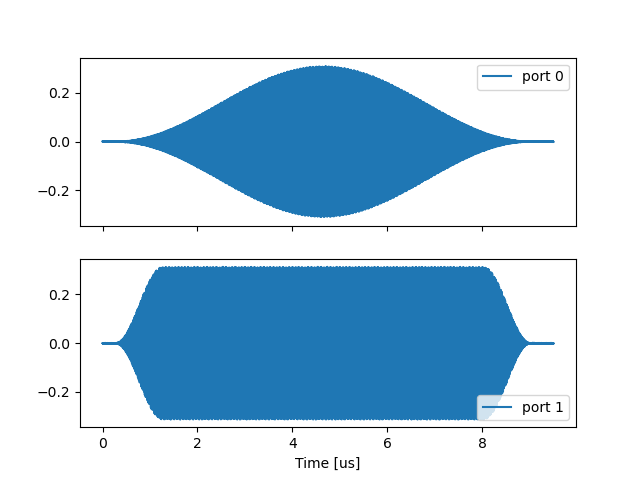
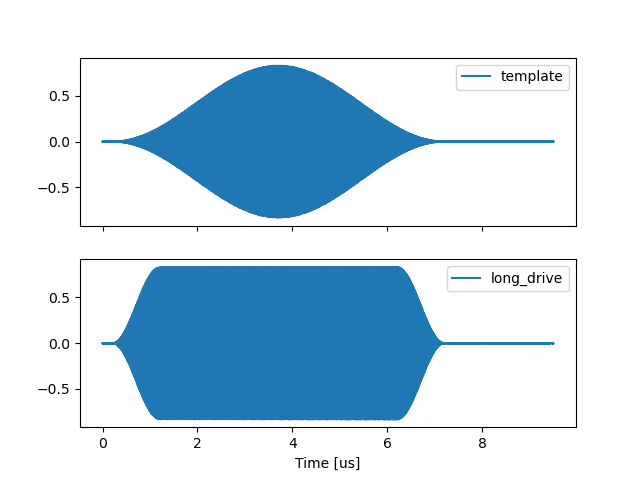
Checked that demos work as intended

diff --git a/demo_2_long_pulses.py b/demo_2_long_pulses.py
@@ -2,14 +2,21 @@
 
 Also demonstrate the convenience method setup_long_drive.
 
-Connect Out 1 to In 1 and Out 2 to In 2.
+Connect one output to one input.
 """
 import matplotlib.pyplot as plt
 import numpy as np
 
 from presto import pulsed
 
-ADDRESS = "192.168.42.50"  # set address/hostname of Vivace here
+# Any port on Vivace
+# Any port on Presto wide, wamp and low
+# Ports 5-8 on Presto-8-QC
+# Ports 9-16 on Presto-16-QC
+output_port = 9
+input_port = 9
+
+ADDRESS = "192.168.20.19"  # set address/hostname of Vivace here
 EXT_REF = False  # set to True to use external 10 MHz reference
 
 with pulsed.Pulsed(
@@ -20,8 +27,9 @@ with pulsed.Pulsed(
 ) as pls:
     ######################################################################
     # Select inputs to store and the duration of each store
-    pls.set_store_ports([1, 2])
-    pls.set_store_duration(9.5e-6)
+    store_duration = 9.5e-6
+    pls.set_store_ports(input_port)
+    pls.set_store_duration(store_duration)
 
     ######################################################################
     # create a long pulse using multiple templates on port 1
@@ -29,39 +37,40 @@ with pulsed.Pulsed(
     t = np.arange(N) / pls.get_fs("dac")
     freq = 55e6
     data = np.sin(2 * np.pi * freq * t) * np.hanning(N)
-    port = 1
     # setup_template will split the template into 4 segments
-    template_1 = pls.setup_template(port, 0, data)
-    pls.setup_scale_lut(port, 0, 1.0)
+    template_1 = pls.setup_template(output_port, 0, data)
+    pls.setup_scale_lut(output_port, 0, 1.0)
 
     ######################################################################
     # create a long pulse from sections using long_drive
-    # See demo_4 for setup_freq_lut and carrier
-    port = 2
-    group = 0
+    # See demo_3 for setup_freq_lut and carrier
+    group = 1
     freq = 55e6
     phase = 0.0
-    pls.setup_freq_lut(port, group, freq, phase)  # see demo_4
-    pls.setup_scale_lut(port, group, 1.0)
+    pls.setup_freq_lut(output_port, group, freq, phase)  # see demo_3
+    pls.setup_scale_lut(output_port, group, 1.0)
 
     # a pulse with the sampe lenght, with 1 us rise time and 1 us fall time
     duration = N / pls.get_fs("dac")
     template_2 = pls.setup_long_drive(
-        output_port=port,
+        output_port=output_port,
         group=group,
         duration=duration,
         amplitude=1.0,
         rise_time=1.0e-6,
         fall_time=1.0e-6,
+        envelope=True,
     )
 
     ######################################################################
     # define the sequence of pulses and data stores in time
     # output the long pulse and store the beginning of the pulses
     T = 0.0
-    pls.select_frequency(T, 0, port, group)  # see demo_4
-    pls.reset_phase(T, output_ports=2)
     pls.output_pulse(T, template_1)
+    pls.store(T)
+    T += store_duration + 2e-9
+    pls.select_frequency(T, 0, output_port, group)  # see demo_4
+    pls.reset_phase(T, output_ports=output_port)
     pls.output_pulse(T, template_2)
     pls.store(T)
 
@@ -69,9 +78,9 @@ with pulsed.Pulsed(
     t_arr, data = pls.get_store_data()
 
 fig, ax = plt.subplots(2, sharex=True, sharey=True)
-ax[0].plot(1e6 * t_arr, data[0, 0, :], label=f"port 0")
+ax[0].plot(1e6 * t_arr, data[0, 0, :], label=f"template")
 ax[0].legend()
-ax[1].plot(1e6 * t_arr, data[0, 1, :], label=f"port 1")
+ax[1].plot(1e6 * t_arr, data[1, 0, :], label=f"long_drive")
 ax[1].legend()
 ax[1].set_xlabel("Time [us]")
 fig.show()

diff --git a/demo_5_template_match.py b/demo_5_template_match.py
@@ -15,11 +15,11 @@ from presto import pulsed
 # Any port on Presto wide, wamp or low
 # Ports 5-8 on Presto-8-QC
 # Ports 9-16 on Presto-16-QC
-input_port = 1
-output_port = 1
+input_port = 9
+output_port = 9
 freq = 100e6  # Hz
 
-ADDRESS = "192.168.42.50"  # set address/hostname of Vivace here
+ADDRESS = "192.168.20.19"  # set address/hostname of Vivace here
 EXT_REF = False  # set to True to use external 10 MHz reference
 
 with pulsed.Pulsed(
@@ -43,12 +43,13 @@ with pulsed.Pulsed(
     # This template will be scaled by the final output scaler.
     N = pulsed.MAX_TEMPLATE_LEN
     t = np.arange(N) / pls.get_fs("dac")
+    print(t)
     s = np.hanning(N)  # use the Hanning window as envelope shape
     template_1 = pls.setup_template(
         output_port=output_port,
         group=0,
         template=s,
-        envelope=1,
+        envelope=True,
     )
 
     # setup a list of frequencies for carrier generator 1
@@ -65,7 +66,7 @@ with pulsed.Pulsed(
 
     # setup a list of scales, decrease the scale with every iteration
     NSCALES = NFREQ  # use same number of steps as for the frequency
-    scales = np.linspace(1.0, 0.01, NSCALES)
+    scales = np.linspace(1.0, 0.1, NSCALES)
     pls.setup_scale_lut(
         output_ports=output_port,
         group=0,
@@ -79,7 +80,7 @@ with pulsed.Pulsed(
     t = np.arange(pulsed.MAX_TEMPLATE_LEN // 2) / pls.get_fs("adc")
     tc = np.cos(2 * np.pi * freq * t)
     ts = -np.sin(2 * np.pi * freq * t)
-    match_pair = pls.setup_template_matching_pair(1, tc, ts)
+    match_pair = pls.setup_template_matching_pair(input_port, tc, ts)
 
     ######################################################################
     # define the sequence of pulses and data stores in time

diff --git a/lockin_demo_1.py b/lockin_demo_1.py
@@ -17,14 +17,14 @@ from presto import lockin, utils
 
 
 # address of the instrument used
-ADDRESS = "192.168.42.50"
+ADDRESS = "192.168.20.19"
 
 # input port used in this measurement
 # Any port on Vivace
 # Any port on Presto wide
 # Ports 5-8 on Presto-8-QC
 # Ports 9-16 on Presto-16-QC
-in_port = 1
+in_port = 9
 
 # output ports used in this meeasurement
 # Any port on Vivace
@@ -33,7 +33,7 @@ in_port = 1
 # Ports 9-12 on Presto-16-QC
 # A group of frequencies can be output on any number of ports,
 # output one for loopback and one for monitoring witn oscilloscope.
-out_port = [1, 2]
+out_port = [9, 10]
 
 # Use a high df when sweeping to cover a wide frequency range with a
 # resonable number of points

diff --git a/demo_1_simple.py b/demo_1_simple.py
@@ -12,10 +12,10 @@ from presto.utils import sin2
 # Any port on Presto wide, wamp and low
 # Ports 5-8 on Presto-8-QC
 # Ports 9-16 on Presto-16-QC
-output_port = 5
-input_port = 5
+output_port = 9
+input_port = 9
 
-ADDRESS = "192.168.88.65"  # set address/hostname of Vivace/Presto here
+ADDRESS = "192.168.20.19"  # set address/hostname of Vivace/Presto here
 EXT_REF = False  # set to True to use external 10 MHz reference
 
 with pulsed.Pulsed(

diff --git a/demo_3_envelopes.py b/demo_3_envelopes.py
@@ -11,10 +11,10 @@ from presto import pulsed
 # Any port on Presto wide, wamp or low
 # Ports 5-8 on Presto-8-QC
 # Ports 9-16 on Presto-16-QC
-input_port = 1
-output_port = 1
+input_port = 9
+output_port = 9
 
-ADDRESS = "192.168.42.50"  # set address/hostname of Vivace here
+ADDRESS = "192.168.20.19"  # set address/hostname of Vivace here
 EXT_REF = False  # set to True to use external 10 MHz reference
 
 with pulsed.Pulsed(

diff --git a/demo_4_sweep.py b/demo_4_sweep.py
@@ -11,10 +11,10 @@ from presto import pulsed
 # Any port on Presto wide, wamp or low
 # Ports 5-8 on Presto-8-QC
 # Ports 9-16 on Presto-16-QC
-input_port = 1
-output_port = 1
+input_port = 9
+output_port = 9
 
-ADDRESS = "192.168.42.50"  # set address/hostname of Vivace here
+ADDRESS = "192.168.20.19"  # set address/hostname of Vivace here
 EXT_REF = False  # set to True to use external 10 MHz reference
 
 with pulsed.Pulsed(
